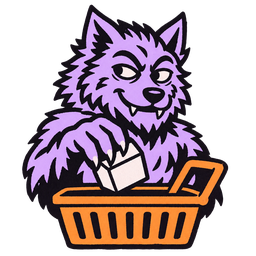
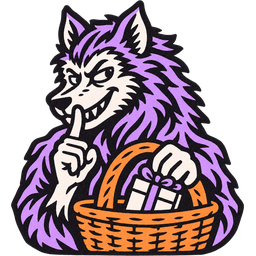
chore: refresh the werewolf stamp to match its new plate
The werewolf stamp is redrawn as a simplified bust of the new werewolf plate, so stamp and plate show the same character. The zombie stamp intentionally stays as the earlier drawing by the owner's choice. Same file names, pixel sizes and PNG format; docs/assets/README.md updated.

Artwork generated with an image model and prepared by a Claude agent; approved by the owner. Not written by Kiro.

diff --git a/docs/assets/README.md b/docs/assets/README.md
@@ -1,8 +1,8 @@
 # Artwork provenance and licence
 
-All images under `public/monsters`, `public/art` and `public/boo-tique/products` were **generated on 2026-11-17 with the OpenAI image model (GPT Image 2.6 Flare) through the Wiro API**, then prepared (cropped, resized, converted, transparent cut-outs, one recolour) with local Python/Pillow scripts by **Claude Code** (Anthropic). Ten plate files, six stamp files and the five README images were added or replaced on 2026-11-21 with the same image model; see "Update 2026-11-21" below. They were **not written by the Kiro CLI**. Claude Code inspected every image and rejected or regenerated off-brief results (the rejected attempts are not in the repo), and the project owner reviewed and approved the final set.
+All images under `public/monsters`, `public/art` and `public/boo-tique/products` were **generated on 2026-11-17 with the OpenAI image model (GPT Image 2.6 Flare) through the Wiro API**, then prepared (cropped, resized, converted, transparent cut-outs, one recolour) with local Python/Pillow scripts by **Claude Code** (Anthropic). Ten plate files, eight stamp files and the five README images were added or replaced on 2026-11-21 with the same image model; see "Update 2026-11-21" below. They were **not written by the Kiro CLI**. Claude Code inspected every image and rejected or regenerated off-brief results (the rejected attempts are not in the repo), and the project owner reviewed and approved the final set.
 
-56 image files under `public/`, 5,681,847 bytes in total (README excluded).
+56 image files under `public/`, 5,714,834 bytes in total (README excluded).
 
 ## What was used as input
 
@@ -28,7 +28,7 @@ Settings: model `openai/gpt-image-2-6-flare`, 1k, 1:1, quality medium, PNG, `bac
 
 ## Monsters (per-file prompt subjects and Wiro task ids)
 
-This table records the 2026-11-17 generation. For werewolf, vampire, zombie, spider and mummy, the plates now in the repo are the redrawn ones described under "Update 2026-11-21"; the vampire, spider and mummy stamps were replaced too. The werewolf and zombie stamps are still the ones from this table. Skeleton, ghost, witch and bats are unchanged.
+This table records the 2026-11-17 generation. For werewolf, vampire, zombie, spider and mummy, the plates now in the repo are the redrawn ones described under "Update 2026-11-21"; the werewolf, vampire, spider and mummy stamps were replaced too. The zombie stamp is still the one from this table; the werewolf stamp was redrawn on 2026-11-21 (see the update below). Skeleton, ghost, witch and bats are unchanged.
 
 | monster | pattern | plate task | stamp task | plate SUBJECT | stamp SUBJECT |
 |---|---|---|---|---|---|
@@ -46,7 +46,7 @@ The vampire plate (task 6252891) used the same recipe on a flat chroma-key green
 
 ### How the transparent cut-outs were made
 
-In the 2026-11-17 set, eight plates and nine stamps came straight from the model's transparent-background output (alpha cleaned: >=240 to 255, <8 to 0) and were checked on #F3EBDD and #13101E at full size and on a 44 px badge: no halos. The vampire plate was chroma-keyed as described above. Plates are exported as lossy WebP (quality 80 to 83, alpha quality 100), stamps as optimised PNG. The 2026-11-21 replacements follow the same export rules (see below); of the files now in the repo, the plates of werewolf, vampire, zombie, spider and mummy and the stamps of vampire, spider and mummy are from that update.
+In the 2026-11-17 set, eight plates and nine stamps came straight from the model's transparent-background output (alpha cleaned: >=240 to 255, <8 to 0) and were checked on #F3EBDD and #13101E at full size and on a 44 px badge: no halos. The vampire plate was chroma-keyed as described above. Plates are exported as lossy WebP (quality 80 to 83, alpha quality 100), stamps as optimised PNG. The 2026-11-21 replacements follow the same export rules (see below); of the files now in the repo, the plates of werewolf, vampire, zombie, spider and mummy and the stamps of werewolf, vampire, spider and mummy are from that update.
 
 ## Update 2026-11-21: README artwork and five redrawn monsters
 
@@ -55,16 +55,17 @@ Same image model as above (`openai/gpt-image-2-6-flare` through the Wiro API), r
 ### What was added or replaced
 
 - Added `docs/images/banner.webp`, `how-it-works.webp`, `monsters.webp`, `built-with-kiro.webp` (README images, WebP web copies) and `social-preview.jpg` (1280x640, kept for the repository's social preview setting). Not yet used by the README.
-- Replaced the plates (`-512.webp`, `-1024.webp`) of werewolf, vampire, zombie, spider and mummy, and the stamps (`-88.png`, `-256.png`) of vampire, spider and mummy. Same file names, pixel sizes and formats; no code change needed.
-- Not replaced: the werewolf and zombie stamps. The redrawn full-figure stamps read worse than the old busts inside a 44 px marker badge, so the 2026-11-17 stamps stay; only the plates of those two changed. A visual comparison sheet was made outside the repo for the owner.
+- Replaced the plates (`-512.webp`, `-1024.webp`) of werewolf, vampire, zombie, spider and mummy, and the stamps (`-88.png`, `-256.png`) of werewolf, vampire, spider and mummy. Same file names, pixel sizes and formats; no code change needed.
+- Werewolf stamp: redrawn as a simplified bust of the new werewolf plate, so that stamp and plate show the same character. The owner approved it after a visual comparison.
+- Not replaced: the zombie stamp. It intentionally stays as the earlier drawing (a bust with an iron ball and chain) by the owner's choice, while its plate shows the newer drawing (a zombie chained to a turnstile); only the zombie plate changed.
 
 ### The five redrawn monsters
 
 | monster | what changed | plate runs (Wiro task ids) | stamp runs |
 |---|---|---|---|
-| werewolf | redrawn: a low crouch seen from the side, glancing back with a sly grin, one paw to its lips, the other slipping a wrapped box into an orange wicker basket behind its back | 6364570 | none used (old stamp kept) |
+| werewolf | redrawn: a low crouch seen from the side, glancing back with a sly grin, one paw to its lips, the other slipping a wrapped box into an orange wicker basket behind its back | 6364570 | redrawn on 2026-11-21 as a simplified bust of the new plate |
 | vampire | redrawn: frontal and symmetric, cape spread wide, pink collar lining, coins dripping from a raised hand into an orange goblet; then an edit that turned the coins into separate heavy coins with edges and highlights | 6364615 (chroma-key green background, keyed locally as described above), then edit 6513256 | 6364713, then edit 6513326 |
-| zombie | redrawn: side view, leaning forward and dragging a foot, arms reaching ahead, ankle shackled by an orange chain to a small orange turnstile | 6364636 | none used (old stamp kept) |
+| zombie | redrawn: side view, leaning forward and dragging a foot, arms reaching ahead, ankle shackled by an orange chain to a small orange turnstile | 6364636 | none used (earlier stamp kept by the owner's choice) |
 | spider | edit of the 2026-11-17 plate: only the face, now cold and watchful with real fangs and no smile | 6513263 (edit of 6252423) | 6513304 (edit of 6252492) |
 | mummy | edit of the 2026-11-17 plate: only the mouth, now a grim gap instead of a smile | 6513273 (edit of 6252494) | 6513319 (edit of 6252503) |
 
@@ -124,8 +125,8 @@ The product names are the fictional Boo-tique catalogue entries from `lib/boo-ti
 | `public/monsters/stamp/spider-256.png` | 256x256 | 91,987 | marker badge (2x) / legend | Cold-eyed violet spider holding an orange checkbox with a tick in its web (preselection) |
 | `public/monsters/stamp/mummy-88.png` | 88x88 | 13,445 | map marker badge | Bandaged mummy with a grim mouth and wrapped eyes, holding an orange button half wrapped in bandage (visual interference) |
 | `public/monsters/stamp/mummy-256.png` | 256x256 | 80,190 | marker badge (2x) / legend | Bandaged mummy with a grim mouth and wrapped eyes, holding an orange button half wrapped in bandage (visual interference) |
-| `public/monsters/stamp/werewolf-88.png` | 88x88 | 14,310 | map marker badge | Werewolf dropping a small box into an orange shopping basket (sneaking an item into the basket) |
-| `public/monsters/stamp/werewolf-256.png` | 256x256 | 84,750 | marker badge (2x) / legend | Werewolf dropping a small box into an orange shopping basket (sneaking an item into the basket) |
+| `public/monsters/stamp/werewolf-88.png` | 88x88 | 18,227 | map marker badge | Werewolf bust with a finger to its lips, a paw slipping a wrapped box into an orange wicker basket (sneaking an item into the basket) |
+| `public/monsters/stamp/werewolf-256.png` | 256x256 | 113,820 | marker badge (2x) / legend | Werewolf bust with a finger to its lips, a paw slipping a wrapped box into an orange wicker basket (sneaking an item into the basket) |
 | `public/monsters/stamp/vampire-88.png` | 88x88 | 16,354 | map marker badge | Vampire in a pink-collared cape dropping heavy orange coins one by one into a goblet (drip pricing) |
 | `public/monsters/stamp/vampire-256.png` | 256x256 | 104,035 | marker badge (2x) / legend | Vampire in a pink-collared cape dropping heavy orange coins one by one into a goblet (drip pricing) |
 | `public/monsters/stamp/zombie-88.png` | 88x88 | 13,121 | map marker badge | Zombie with an iron shackle chained to a large orange ball (hard to cancel) |
@@ -183,4 +184,4 @@ For decorative uses (a monster next to its own visible name) an empty `alt` is f
 - Monster ids: skeleton, ghost, witch, spider, mummy, werewolf, vampire, zombie, bats. Bats are the ninth monster (fake activity); the ghost covers fake scarcity only.
 - Stamps are drawn for a round 44 px badge. In tests a dark fill (#28213F) with the 3 px white and 2 px #13101E rings reads best for every monster; orange fills hide the orange props, lilac fills hide the violet bodies. The zombie and the bats are the lowest-contrast on dark, so encode severity with the number chip or ring colour and add a thin light inner ring if needed.
 - Hero: the left third is intentionally empty for a headline.
-- Werewolf and zombie keep their 2026-11-17 stamps (a bust with a basket; a bust with a ball and chain), while their plates show the redrawn figures (a crouching werewolf, a zombie chained to a turnstile). The props differ between the two sizes only for the zombie.
+- The werewolf stamp is a simplified bust of the redrawn plate, so both show the same character. The zombie keeps its 2026-11-17 stamp (a bust with a ball and chain) by the owner's choice, while its plate shows the redrawn figure (a zombie chained to a turnstile); the props differ between stamp and plate only for the zombie.
